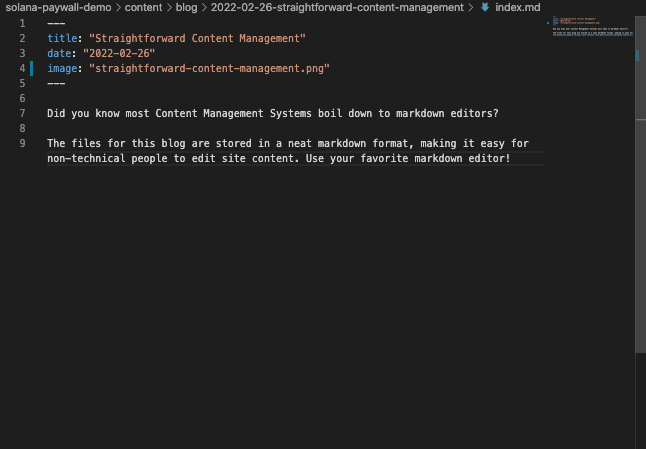
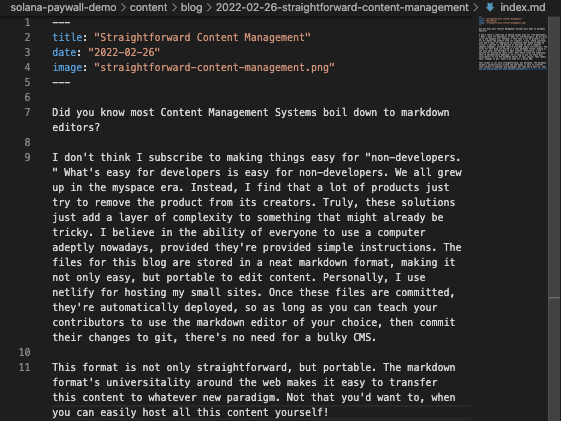
gotta love edits

Changed region(s): [[0.0, 0.0, 1.0, 1.0], [0.0909, 0.8646, 0.8182, 0.9881], [0.0303, 0.8337, 0.0606, 0.8955]]

diff --git a/content/blog/2022-02-26-straightforward-content-management/index.md b/content/blog/2022-02-26-straightforward-content-management/index.md
@@ -6,6 +6,6 @@ image: "straightforward-content-management.png"
 
 Did you know most Content Management Systems boil down to markdown editors? 
 
-I don't think I subscribe to making things easy for "non-developers." What's easy for developers is easy for non-developers. We all grew up in the myspace era. Instead, I find that a lot of products just try to remove the product from its creators. Truly, these solutions just add a layer of complexity to something that might already be tricky. I believe in the ability of everyone to use a computer adeptly nowadays, provided they're provided simple instructions. The files for this blog are stored in a neat markdown format, making it not only easy, but portable to edit content. Personally, I use netlify for hosting my small sites. Once these files are committed, they're automatically deployed, so as long as you can teach your contributors to use the markdown editor of your choice, then commit their changes to git, there's no need for a bulky CMS.
+I don't think I subscribe to making things easy for "non-developers." I think that most people of a certain age have a familiarity with markdown, even if we don't know it by that name. Instead, I find that a lot of products just try to remove the product from its creators. Truly, these solutions just add a layer of complexity to something that might already be tricky. I believe in the ability of everyone to use a computer adeptly nowadays, provided they're provided simple instructions. The files for this blog are stored in a neat markdown format, making it not only easy, but portable to edit content. Personally, I use netlify for hosting my small sites. Once these files are committed, they're automatically deployed, so as long as you can teach your contributors to use the markdown editor of your choice, then commit their changes to git, there's no need for a bulky CMS.
 
 This format is not only straightforward, but portable. The markdown format's universitality around the web makes it easy to transfer this content to whatever new paradigm. Not that you'd want to, when you can easily host all this content yourself!

diff --git a/README.md b/README.md
@@ -2,7 +2,9 @@
 
 To use this site to accept payments to your solana wallet, put your public key in an environment variable `process.env.GATSBY_PUBLISHER_URL` wherever you're deploying your site.
 
-_Have another more specific idea? You may want to check out our vibrant collection of [official and community-created starters](https://www.gatsbyjs.org/docs/gatsby-starters/)._
+The rest of this README is about the gatsby blog itself. Happy Hacking!
+
+_Be sure to vote for this project for [solana riptide]()._
 
 ## 🚀 Quick start
 
